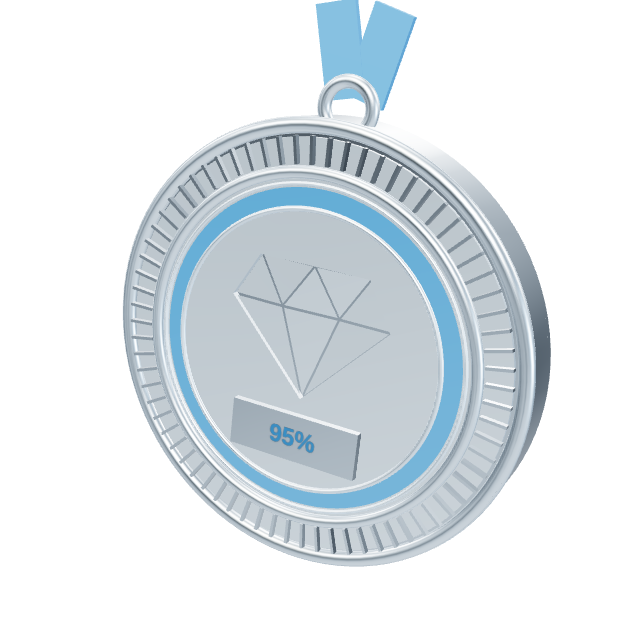
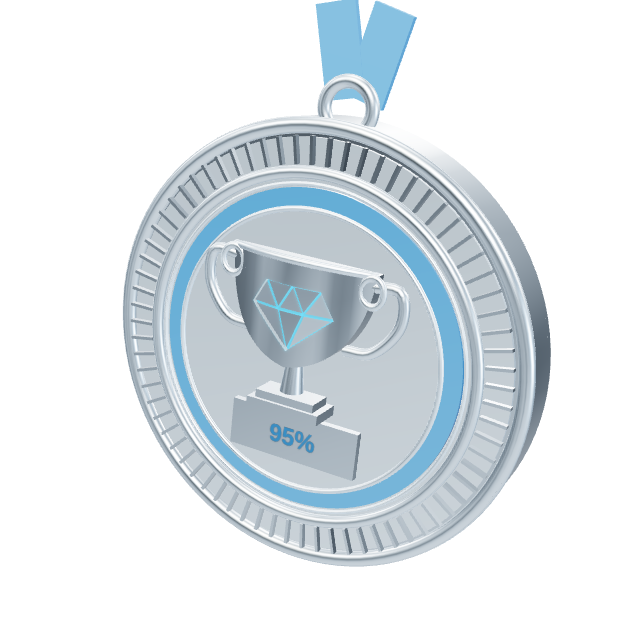
feat: restore diamond trophy with pulsing blue engraved seams

Changed region(s): [[0.3125, 0.375, 0.6562, 0.6562]]

diff --git a/src/components/common/badges/examperformance/diamondTrophy.js b/src/components/common/badges/examperformance/diamondTrophy.js
@@ -1,0 +1,114 @@
+// A curved, solid silver cup with recessed metallic facets and luminous seams.
+// The glow uses emissive materials, not a fullscreen bloom/postprocessing pass.
+export const TROPHY_PULSE_SECONDS = 3.2;
+export const trophySurfaceZ = x => 0.29 + 0.12 * Math.max(0, 1 - (x / 0.44) ** 2);
+
+export function createDiamondTrophy(THREE, medal, silver) {
+  const group = new THREE.Group(); group.name = "diamond-trophy"; medal.add(group);
+  const add = (geometry, material, x = 0, y = 0, z = 0) => {
+    const mesh = new THREE.Mesh(geometry, material); mesh.position.set(x, y, z); group.add(mesh); return mesh;
+  };
+  const tube = (points, radius, material = silver) => add(new THREE.TubeGeometry(
+    new THREE.CatmullRomCurve3(points.map(p => new THREE.Vector3(...p))), 24, radius, 8, false
+  ), material);
+
+  // The bowl's front curves outward; its diamond-shaped cavity is cut through the cap.
+  const bowl = new THREE.Shape();
+  bowl.moveTo(-0.42, 0.55); bowl.lineTo(0.42, 0.55);
+  bowl.bezierCurveTo(0.40, 0.18, 0.22, 0.02, 0, -0.015);
+  bowl.bezierCurveTo(-0.22, 0.02, -0.40, 0.18, -0.42, 0.55);
+  const A=[-0.16,0.43], B=[0,0.43], C=[0.16,0.43];
+  const D=[-0.24,0.29], E=[-0.075,0.29], F=[0.075,0.29], G=[0.24,0.29], H=[0,0.075];
+  const outline = [A,C,G,H,D];
+  const hole = new THREE.Path();
+  outline.forEach(([x,y],i)=>i ? hole.lineTo(x,y) : hole.moveTo(x,y));
+  hole.closePath(); bowl.holes.push(hole);
+  const body = new THREE.ExtrudeGeometry(bowl, { depth:0.07, bevelEnabled:false, curveSegments:24 });
+  // Subdivide the curved cap before bending it, so the bowl stays smoothly rounded.
+  const source=body.attributes.position, vertices=[], frontVertices=[];
+  const subdivide=(a,b,c,level,front)=>{
+    if (level) {
+      const mid=(p,q)=>p.map((n,i)=>(n+q[i])/2);
+      const ab=mid(a,b),bc=mid(b,c),ca=mid(c,a);
+      [[a,ab,ca],[ab,b,bc],[ca,bc,c],[ab,bc,ca]].forEach(t=>subdivide(...t,level-1,front));
+    } else {
+      [a,b,c].forEach(([x,y,z])=>{
+        vertices.push(x,y,z>0.035?trophySurfaceZ(x):0.22);
+        frontVertices.push(front);
+      });
+    }
+  };
+  for(let i=0;i<source.count;i+=3){
+    const triangle=[0,1,2].map(n=>[source.getX(i+n),source.getY(i+n),source.getZ(i+n)]);
+    const front=triangle.every(p=>p[2]>0.035);
+    subdivide(...triangle,front?3:0,front);
+  }
+  const curvedBody=new THREE.BufferGeometry();
+  curvedBody.setAttribute("position",new THREE.Float32BufferAttribute(vertices,3));
+  curvedBody.computeVertexNormals();
+  const normals=curvedBody.attributes.normal;
+  frontVertices.forEach((front,i)=>{
+    if(front){const normal=new THREE.Vector3(0.24*vertices[i*3]/(0.44**2),0,1).normalize();normals.setXYZ(i,normal.x,normal.y,normal.z);}
+  });
+  body.dispose();
+  add(curvedBody,silver).name="silver-trophy-bowl";
+
+  const seam = new THREE.MeshStandardMaterial({ color:0x0785ae, emissive:0x008ed6, emissiveIntensity:0.7, metalness:0.25, roughness:0.35 });
+  const facetMaterial = silver.clone(); facetMaterial.emissive = new THREE.Color(0x0089bd); facetMaterial.emissiveIntensity = 0.015;
+  const triangles = [[A,D,E],[A,E,B],[B,E,F],[B,F,C],[C,F,G],[D,H,E],[E,H,F],[F,H,G]];
+  triangles.forEach((points,index) => {
+    const center=points.reduce((sum,v)=>[sum[0]+v[0]/3,sum[1]+v[1]/3],[0,0]);
+    const make = (inset, depth) => {
+      const vertices=points.flatMap(([x,y])=>{
+        const px=center[0]+(x-center[0])*inset, py=center[1]+(y-center[1])*inset;
+        return [px,py,trophySurfaceZ(px)-depth];
+      });
+      const geometry=new THREE.BufferGeometry(); geometry.setAttribute("position",new THREE.Float32BufferAttribute(vertices,3)); geometry.computeVertexNormals(); return geometry;
+    };
+    add(make(1,0.031),seam).name="recessed-blue-seam";
+    add(make(0.87,0.009+(index%3)*0.003),facetMaterial).name="integrated-metallic-diamond-facet";
+  });
+
+  // A small surface-local light spill softens the seams without screen-wide bloom.
+  const lightMap=document.createElement("canvas"); lightMap.width=256; lightMap.height=256;
+  const ctx=lightMap.getContext("2d");
+  const toPixel=([x,y])=>[(x+0.3)/0.6*256,(0.485-y)/0.46*256];
+  ctx.strokeStyle="#009dff"; ctx.lineWidth=1.5; ctx.shadowColor="#00bfff"; ctx.shadowBlur=10;
+  const edges=new Set();
+  triangles.forEach(points=>points.forEach((point,i)=>{
+    const next=points[(i+1)%3],key=[point.join(","),next.join(",")].sort().join("|");
+    if(edges.has(key))return; edges.add(key);
+    ctx.beginPath();ctx.moveTo(...toPixel(point));ctx.lineTo(...toPixel(next));ctx.stroke();
+  }));
+  const spillTexture=new THREE.CanvasTexture(lightMap);
+  const spillMaterial=new THREE.MeshBasicMaterial({map:spillTexture,transparent:true,opacity:0.12,depthWrite:false,blending:THREE.AdditiveBlending,toneMapped:false});
+  const spillGeometry=new THREE.PlaneGeometry(0.6,0.46,16,16);
+  const spillPositions=spillGeometry.attributes.position;
+  for(let i=0;i<spillPositions.count;i++){
+    spillPositions.setY(i,spillPositions.getY(i)+0.255);
+    spillPositions.setZ(i,trophySurfaceZ(spillPositions.getX(i))+0.002);
+  }
+  add(spillGeometry,spillMaterial).name="diamond-seam-light-spill";
+
+  // Curled handles and a stepped stem visually join the cup to its pedestal.
+  [-1,1].forEach(side=>{
+    tube([[side*.39,.49,.28],[side*.55,.49,.28],[side*.57,.32,.28],[side*.43,.14,.29],[side*.28,.12,.29]],.032);
+    const mount=add(new THREE.TorusGeometry(.065,.018,8,24),silver,side*.41,.47,.32); mount.scale.y=1.18;
+  });
+  tube([[-.42,.55,.29],[-.23,.565,.38],[0,.57,.418],[.23,.565,.38],[.42,.55,.29]],.022);
+  const stem = add(new THREE.CylinderGeometry(.045,.065,.18,24),silver,0,-.095,.29);
+  stem.name="trophy-stem";
+  add(new THREE.BoxGeometry(.35,.045,.16),silver,0,-.22,.29);
+  add(new THREE.BoxGeometry(.43,.055,.20),silver,0,-.27,.29);
+
+  return {
+    group,
+    dispose() { spillTexture.dispose(); },
+    update(time, animated) {
+      const pulse=animated ? (1-Math.cos(time*Math.PI*2/TROPHY_PULSE_SECONDS))/2 : 0;
+      seam.emissiveIntensity=0.7+pulse*1.5;
+      spillMaterial.opacity=0.12+pulse*0.65;
+      facetMaterial.emissiveIntensity=0.015+pulse*0.12;
+    },
+  };
+}

diff --git a/src/components/common/badges/examperformance/medalScene.js b/src/components/common/badges/examperformance/medalScene.js
@@ -1,3 +1,5 @@
+import { createDiamondTrophy } from "./diamondTrophy.js";
+
 export const FINISHES = {
   bronze: { metal: "#bc7746", enamel: "#174c3f", score: "60", name: "Bronze" },
   silver: { metal: "#cbd5e1", enamel: "#254f87", score: "70", name: "Silver" },
@@ -49,35 +51,8 @@ export function createMedalScene(THREE, RoomEnvironment, renderer, finish) {
   disc(1.16, 0.026, satin, 0.115);
   ring(0.98, 0.035, 0.16);
   ring(0.92, 0.012, 0.16);
-  if (finish.engraved) {
-    add(new THREE.RingGeometry(0.78, 0.90, 96), enamel, 0, 0, 0.1575);
-  } else {
-    disc(0.90, 0.025, enamel, 0.145);
-  }
-  if (finish.engraved) {
-    // The diamond is cut INTO the face plate. Every facet stays below its surface.
-    const face = new THREE.Shape();
-    face.absarc(0, 0, 0.78, 0, Math.PI * 2, false);
-    const outline = [[-0.33,0.49],[0.33,0.49],[0.48,0.23],[0,-0.27],[-0.48,0.23]];
-    const cutout = new THREE.Path();
-    outline.forEach(([x,y], i) => i ? cutout.lineTo(x,y) : cutout.moveTo(x,y));
-    cutout.closePath(); face.holes.push(cutout);
-    const plate = add(new THREE.ExtrudeGeometry(face, { depth:0.05, bevelEnabled:false, curveSegments:48 }), satin, 0, 0, 0.1275);
-    plate.name = "diamond-engraved-face";
-    disc(0.78, 0.012, metal, 0.128);
-    const A=[-0.33,0.49,0.158], B=[0,0.49,0.168], C=[0.33,0.49,0.158];
-    const D=[-0.48,0.23,0.158], E=[-0.17,0.23,0.169], F=[0.17,0.23,0.153], G=[0.48,0.23,0.158], H=[0,-0.27,0.158];
-    [[A,D,E],[A,E,B],[B,E,F],[B,F,C],[C,F,G],[D,H,E],[E,H,F],[F,H,G]].forEach(points => {
-      const center=points.reduce((sum,v)=>sum.map((n,i)=>n+v[i]/3),[0,0,0]);
-      const vertices=points.flatMap(v=>[center[0]+(v[0]-center[0])*0.94,center[1]+(v[1]-center[1])*0.94,v[2]]);
-      const geometry=new THREE.BufferGeometry();
-      geometry.setAttribute("position",new THREE.Float32BufferAttribute(vertices,3));
-      geometry.computeVertexNormals();
-      const facet=add(geometry,satin); facet.name="recessed-diamond-facet";
-    });
-  } else {
-    disc(0.78, 0.025, satin, 0.165);
-  }
+  disc(0.90, 0.025, enamel, 0.145);
+  disc(0.78, 0.025, satin, 0.165);
   ring(0.79, 0.016, 0.18);
   // Machined radial fluting: actual geometry catches the studio lights.
   const ribs = new THREE.InstancedMesh(new THREE.BoxGeometry(0.017, 0.15, 0.035), metal, 72);
@@ -89,6 +64,7 @@ export function createMedalScene(THREE, RoomEnvironment, renderer, finish) {
     ribs.setMatrixAt(i, ribTransform.matrix);
   }
   medal.add(ribs);
+  const diamondTrophy = finish.engraved ? createDiamondTrophy(THREE, medal, metal) : null;
   // Raised victory cup, with extruded handles, stem and pedestal.
   if (!finish.engraved) {
   const cup = new THREE.Shape();
@@ -158,15 +134,18 @@ export function createMedalScene(THREE, RoomEnvironment, renderer, finish) {
     sprite.scale.setScalar(0.22); sprite.visible = true; medal.add(sprite);
     return sprite;
   });
-  const updateSparkles = (time, enabled) => glints.forEach((sprite, index) => {
+  const updateSparkles = (time, enabled) => {
+    diamondTrophy?.update(time, enabled);
+    glints.forEach((sprite, index) => {
     const pulse = Math.pow(Math.max(0, Math.sin(time * 1.8 + index * 2.1)), 12);
     sprite.material.opacity = enabled ? pulse : 0;
     sprite.scale.setScalar(0.12 + pulse * 0.16);
-  });
+    });
+  };
 
   medal.position.y = -0.14;
   medal.rotation.set(0.24, -0.48, -0.12);
-  return { scene, camera, medal, updateSparkles, dispose() {
+  return { scene, camera, medal, updateSparkles, updateTrophyGlow: diamondTrophy?.update, dispose() {
     const geometries = new Set(), materials = new Set();
     scene.traverse(object => {
       if (object.geometry) geometries.add(object.geometry);
@@ -174,6 +153,7 @@ export function createMedalScene(THREE, RoomEnvironment, renderer, finish) {
     });
     geometries.forEach(geometry => geometry.dispose());
     materials.forEach(material => material.dispose());
+    diamondTrophy?.dispose();
     texture.dispose(); reverseTexture.dispose(); glintTexture.dispose(); environment.dispose();
   }};
 }

diff --git a/src/components/common/badges/examperformance/diamondTrophy.test.js b/src/components/common/badges/examperformance/diamondTrophy.test.js
@@ -1,0 +1,33 @@
+import * as THREE from "three";
+import { createDiamondTrophy, trophySurfaceZ, TROPHY_PULSE_SECONDS } from "./diamondTrophy";
+
+beforeEach(() => {
+  jest.spyOn(HTMLCanvasElement.prototype, "getContext").mockReturnValue({beginPath:jest.fn(),moveTo:jest.fn(),lineTo:jest.fn(),stroke:jest.fn()});
+});
+afterEach(() => jest.restoreAllMocks());
+
+test("diamond facets are silver and recessed within the trophy bowl", () => {
+  const medal = new THREE.Group();
+  const silver = new THREE.MeshStandardMaterial({ metalness:1 });
+  const { group } = createDiamondTrophy(THREE, medal, silver);
+  expect(group.getObjectByName("silver-trophy-bowl")).toBeDefined();
+  expect(group.getObjectByName("trophy-stem")).toBeDefined();
+  const facets = group.children.filter(mesh => mesh.name === "integrated-metallic-diamond-facet");
+  expect(facets).toHaveLength(8);
+  facets.forEach(mesh => {
+    expect(mesh.material.metalness).toBe(1);
+    const vertices=mesh.geometry.attributes.position;
+    for(let i=0;i<vertices.count;i++) {
+      expect(vertices.getZ(i)).toBeLessThan(trophySurfaceZ(vertices.getX(i)));
+    }
+  });
+});
+
+test("only the recessed seams and adjacent metal pulse; disabling motion restores quiet light", () => {
+  const { group, update } = createDiamondTrophy(THREE, new THREE.Group(), new THREE.MeshStandardMaterial({ metalness:1 }));
+  const seam=group.getObjectByName("recessed-blue-seam").material;
+  update(0,true);const quiet=seam.emissiveIntensity;
+  update(TROPHY_PULSE_SECONDS/2,true);expect(seam.emissiveIntensity).toBeGreaterThan(quiet);
+  update(TROPHY_PULSE_SECONDS,true);expect(seam.emissiveIntensity).toBeCloseTo(quiet);
+  update(TROPHY_PULSE_SECONDS/2,false);expect(seam.emissiveIntensity).toBe(quiet);
+});

diff --git a/src/components/common/badges/examperformance/ExamPerformanceMedal.jsx b/src/components/common/badges/examperformance/ExamPerformanceMedal.jsx
@@ -6,6 +6,7 @@ import silver from "./renders/silver.png";
 import gold from "./renders/gold.png";
 import platinum from "./renders/platinum.png";
 import diamond from "./renders/diamond.png";
+import diamondPulse from "./renders/diamond-pulse.png";
 import "./examCelebration.css";
 
 const RENDERS = { bronze, silver, gold, platinum, diamond };
@@ -127,6 +128,7 @@ export default function ExamPerformanceMedal({ tier = "gold", size = 180, earned
   return <div className={`${interactive ? "" : "exam-medal--static"} ${className}`} data-motion={spin && earned ? "spin" : "still"} data-sparkles={premiumSparkles ? "true" : "false"} role="img" aria-label={`${finish.name} exam performance medal, ${finish.score}% mastery${earned ? "" : ", locked"}`} style={{ width: size, height: size, position: "relative", filter: earned ? undefined : "grayscale(1) contrast(.75)", opacity: earned ? 1 : 0.4 }}>
     <div className={!ready && spin && earned ? "exam-medal__fallback--spin" : undefined} style={{ position: "absolute", inset: 0, opacity: ready ? 0 : 1 }} aria-hidden="true">
       <img src={RENDERS[tier] || gold} alt="" width={size} height={size} style={{ width: "100%", height: "100%", opacity: ready ? 0 : 1 }} />
+      {!ready && tier === "diamond" && premiumSparkles && <img src={diamondPulse} alt="" className="exam-medal__diamond-pulse" width={size} height={size} />}
       {!ready && premiumSparkles && [[25,29],[76,48],[32,78],[72,22]].map(([left, top], index) =>
         <i key={index} className="exam-medal__glint" style={{ left: `${left}%`, top: `${top}%`, animationDelay: `${index * -1.2}s` }} />)}
     </div>

diff --git a/src/components/common/badges/examperformance/examCelebration.css b/src/components/common/badges/examperformance/examCelebration.css
@@ -51,3 +51,7 @@
 .exam-medal--static { transition:transform .2s ease-out; }
 @media(hover:hover) { .exam-medal--static:hover { transform:perspective(800px) rotateY(-9deg); } }
 @media(prefers-reduced-motion:reduce) { .exam-medal--static:hover { transform:none; } }
+
+.exam-medal__diamond-pulse { position:absolute; inset:0; width:100%; height:100%; opacity:0; pointer-events:none; animation:diamond-inner-light 3.2s ease-in-out infinite; }
+@keyframes diamond-inner-light { 0%,100% { opacity:0; } 50% { opacity:1; } }
+@media(prefers-reduced-motion:reduce) { .exam-medal__diamond-pulse { animation:none; opacity:0; } }
